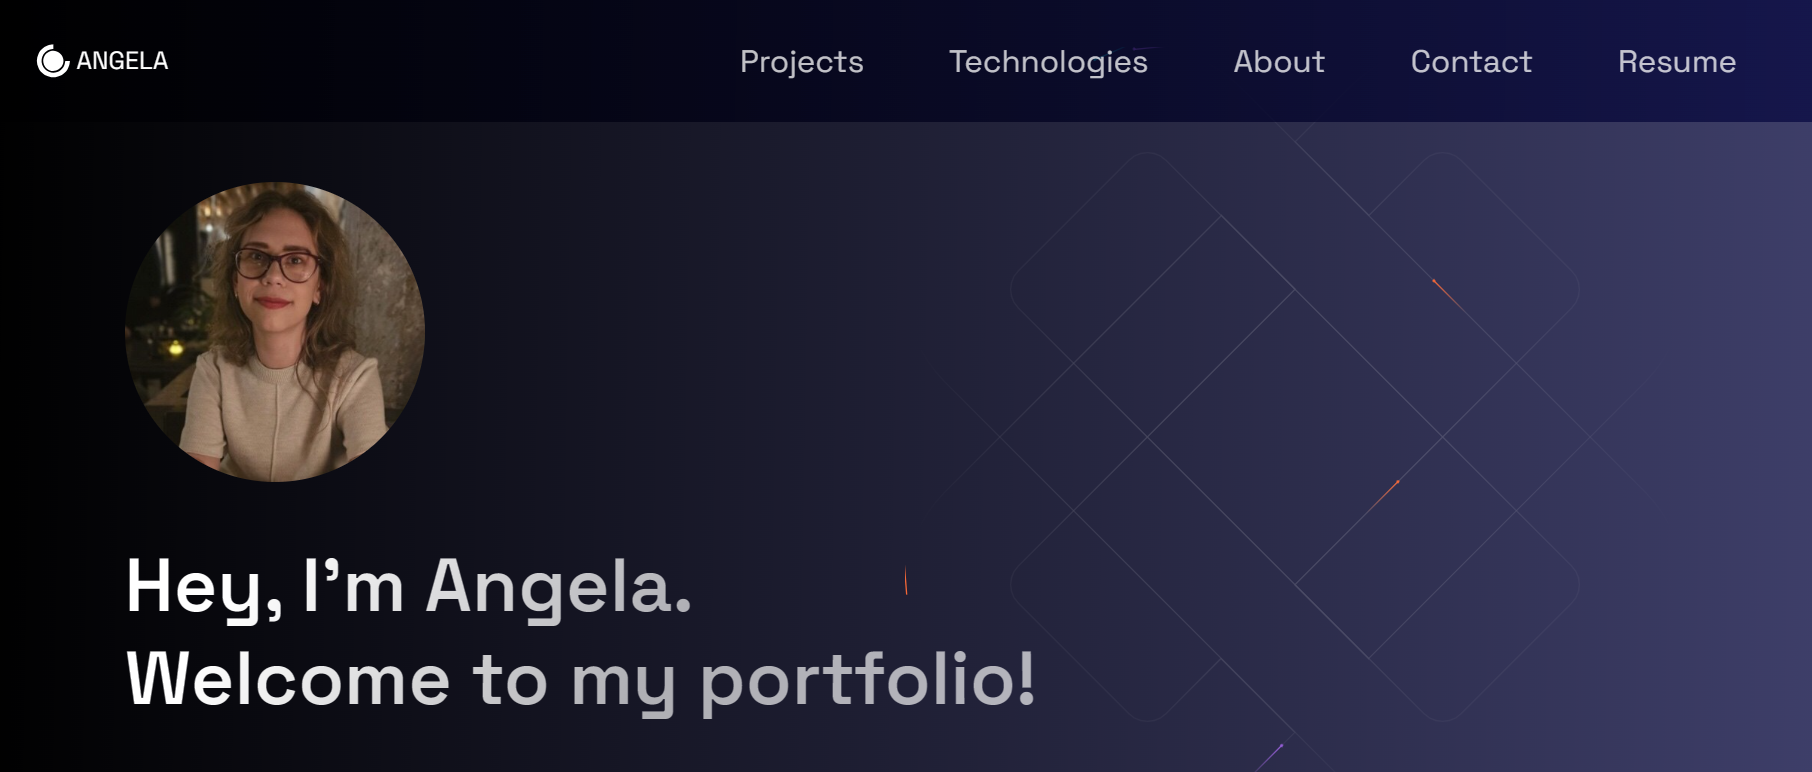
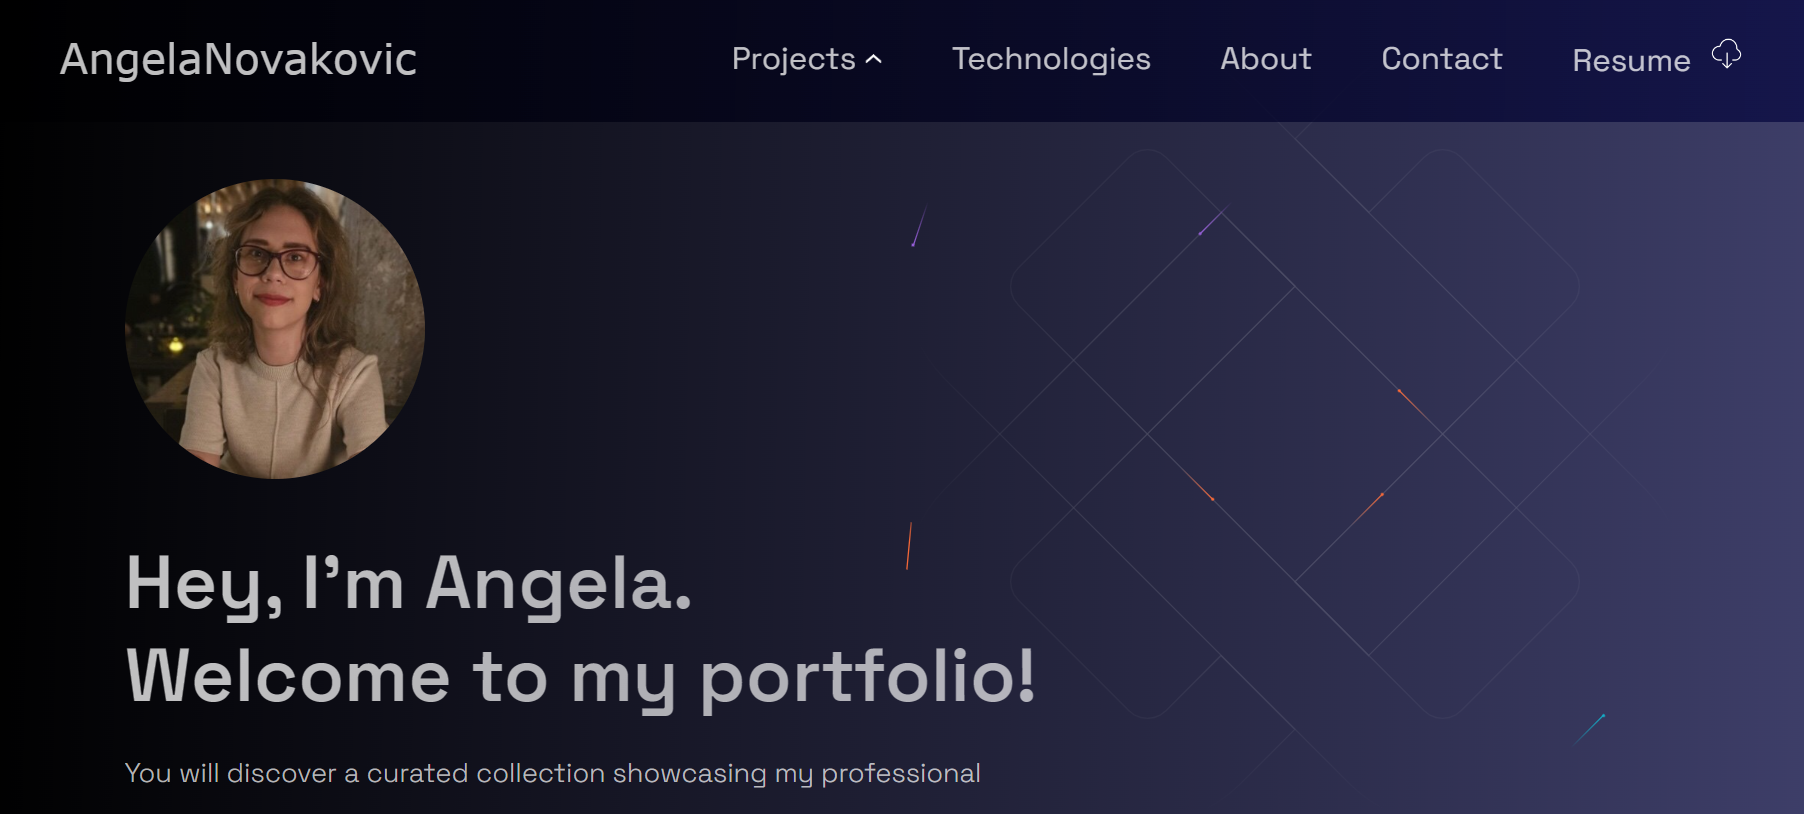
Projects updated

diff --git a/src/constants/constants.js b/src/constants/constants.js
@@ -1,11 +1,11 @@
 export const projects = [
   {
     title: 'Portfolio',
-    description: "Using React, Node.js, Express & MongoDB you'll learn how to build a Full Stack MERN Application - from start to finish. The App is called Memories and it is a simple social media app that allows users to post interesting events that happened in their lives.",
+    description: "My portfolio presents diverse projects, highlighting my software development journey. The 'Portfolio' project, on Next.js with JavaScript, illustrates my career path. Proficient in React.js, JavaScript, and Node.js, I showcase skills from basic projects to advanced engineering endeavors.",
       image: '/images/Portfolio.png',
-      tags: ['HTML', 'JavaScript', 'React', 'Next.js'],
-    source: 'https://google.com',
-    visit: 'https://google.com',
+      tags: ['JavaScript', 'React', 'Next.js'],
+    source: 'https://github.com/AngelaNova/Portfolio_AngelaNovakovic.com',
+    visit: 'https://github.com/AngelaNova/Portfolio_AngelaNovakovic.com',
     id: 0,
   },
   {

diff --git a/src/components/Hero/Hero.js b/src/components/Hero/Hero.js
@@ -52,9 +52,9 @@ const Hero = (props) => {
               <YoutubeLink href="https://www.youtube.com/playlist?list=PL5X764mf-V_MJzVhA4egDnbjBAdivzViz"> 
                 more than 76 hours of coding tutorials on YouTube
               </YoutubeLink>
-              &nbsp;and listened to
+              &nbsp;and listened to &nbsp;
               <SpotifyLink href="https://developer.spotify.com/documentation/web-api">
-                &nbsp;600 minutes of music on Spotify 
+                600 minutes of music on Spotify 
               </SpotifyLink>
               &nbsp;in the past 30 days.
             </p>

diff --git a/src/components/Header/Header.js b/src/components/Header/Header.js
@@ -12,8 +12,8 @@ const Header = () =>  {
     <Container>
       <Div1>
         <Link href="/">
-          <a style={{ display: 'flex', alignItems: 'center', color:"white", fontFamily:'Verdana' , fontSize:"30px", marginLeft:"30px"}}>
-            <span>AngelaNova</span>
+          <a style={{ display: 'flex', alignItems: 'center', color: "rgba(255, 255, 255, 0.75)", fontFamily:'Verdana' , fontSize:"28px", marginLeft:"20px"}}>
+            <span>AngelaNovakovic</span>
           </a>
         </Link>
       </Div1>

diff --git a/src/themes/default.js b/src/themes/default.js
@@ -6,7 +6,7 @@ export default {
   },
   // Colors for layout
   colors: {
-    primary1: "#fff",
+    primary1: " rgba(255,255,255, 0.8)",
     background1: "linear-gradient(91deg, rgba(0, 0, 0, 1) 0%, rgba(0, 1, 60, 0.75) 100%)",
     accent1: "rgba(255, 117, 67, 0.73)",
     button: "green",

diff --git a/src/components/PortfolioProject/PortfolioProject.js b/src/components/PortfolioProject/PortfolioProject.js
@@ -4,7 +4,7 @@ import React from 'react';
 const PortfolioProject = () => {
   return (
     <Section>
-      <SectionText>
+      <SectionText marginTop="150px">
         This is my Portfolio Project
       </SectionText>
     </Section>

diff --git a/src/styles/GlobalComponents/index.js b/src/styles/GlobalComponents/index.js
@@ -136,7 +136,7 @@ export const SecondaryBtn = styled.button`
   }
 
   &:hover {
-    color: #0f1624;
+    color: #rbga(255,255,255,0.7);
     background: rgba(255, 117, 67, 0.93);
     border: 1px solid #fff;
   }

diff --git a/src/components/Projects/ProjectsStyles.js b/src/components/Projects/ProjectsStyles.js
@@ -35,6 +35,7 @@ export const BlogCard = styled.div`
 export const TitleContent = styled.div`
   text-align: center;
   z-index: 20;
+  font-size: 16px;
   width: 100%;
 
 `;
